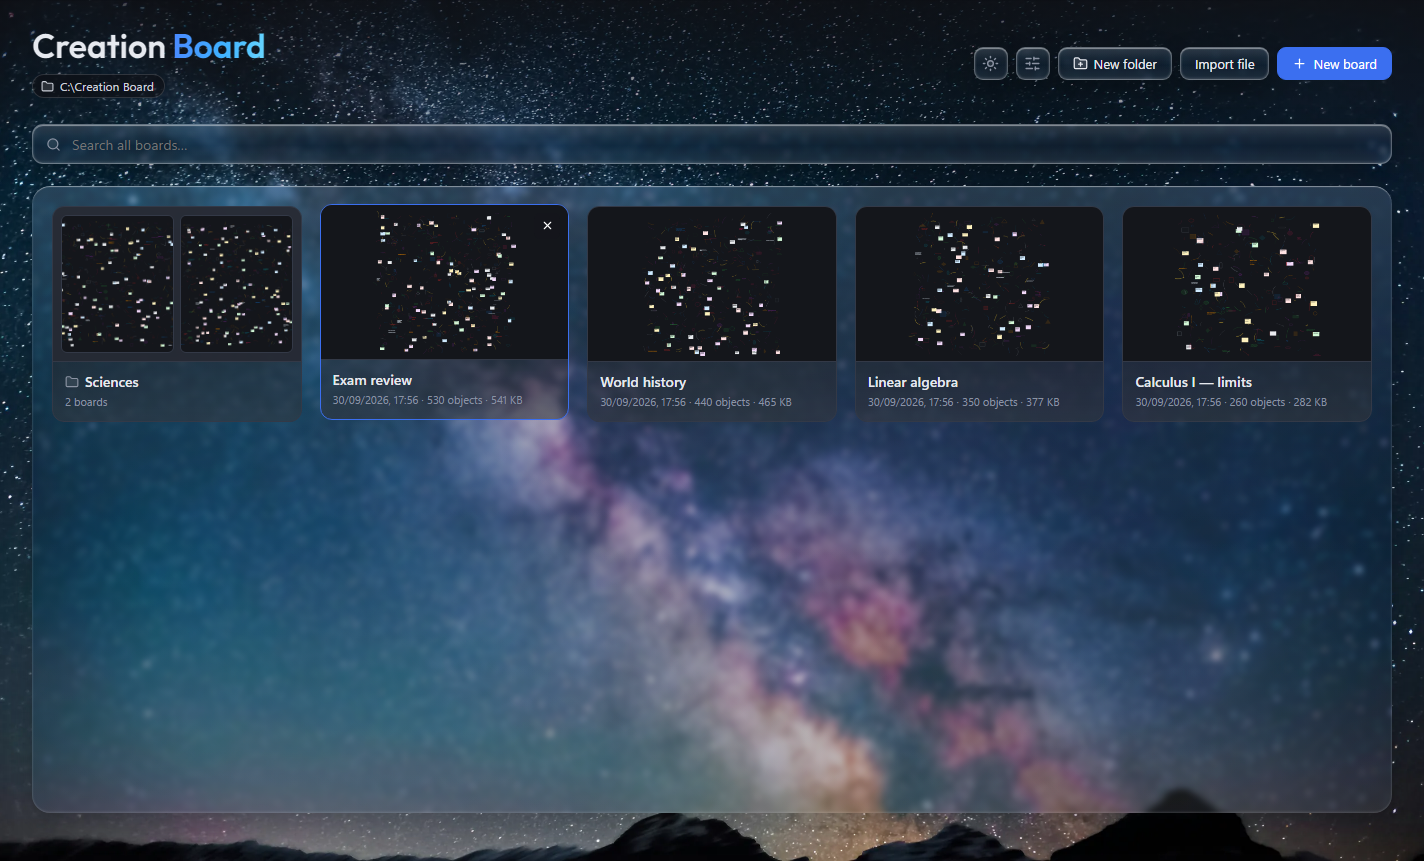
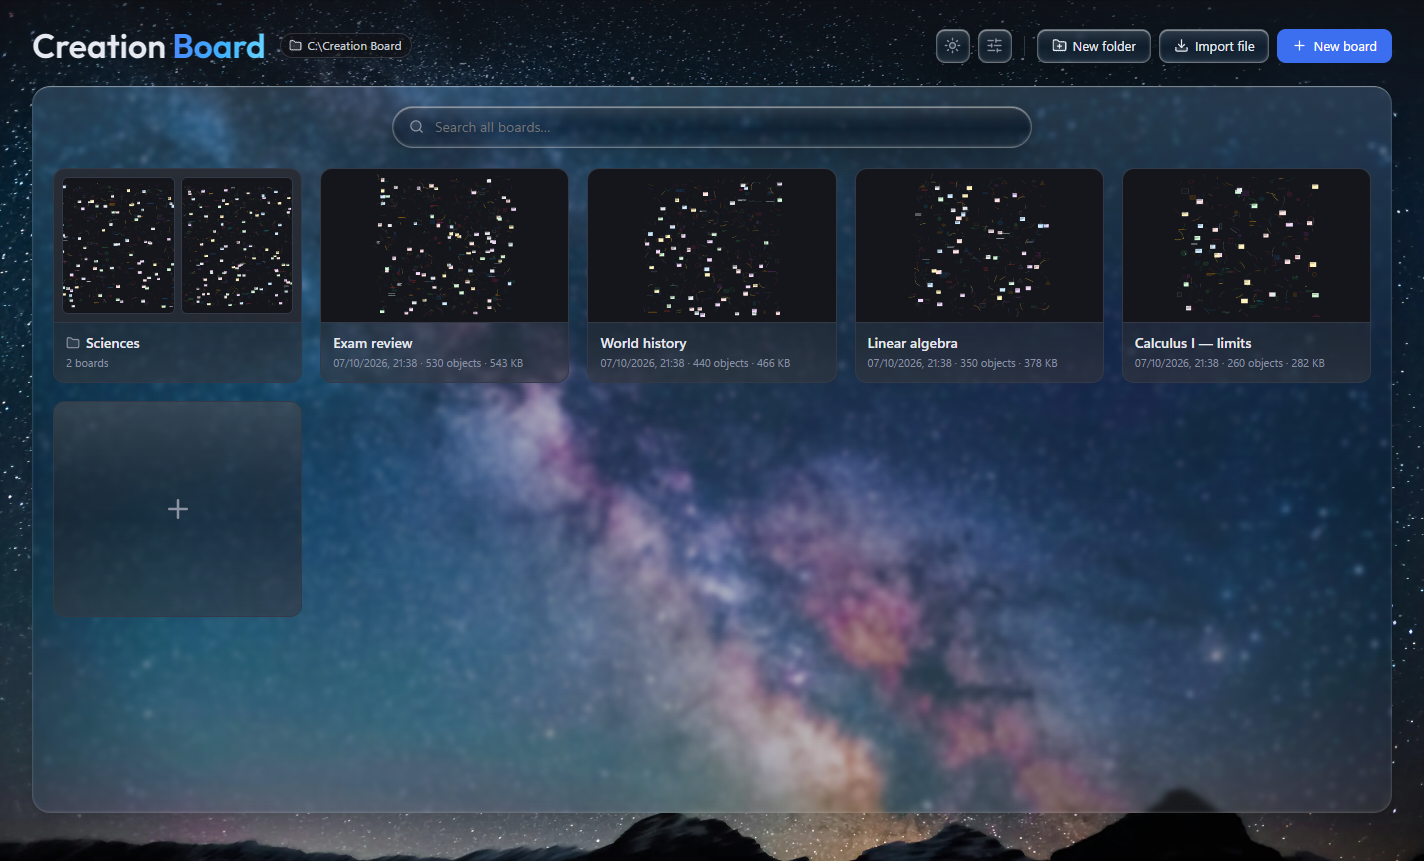
Capturas do README no visual novo, e o "+" da altura de um quadro
Guarda do "+" ampliada: sozinho numa fileira, ele tem a altura de um
quadro. Conferida ao contrario sem a regra (150 / 222, reprovou).
Selftest 201/201.

diff --git a/src/renderer/styles/ui.css b/src/renderer/styles/ui.css
@@ -439,6 +439,9 @@
 .qb-lobby__grid {
   display: grid;
   grid-template-columns: repeat(auto-fill, minmax(240px, 1fr));
+  /* Todas as fileiras com a altura da mais alta: o "+" que cai sozinho numa
+     fileira nova fica do tamanho de um quadro, e nao uma faixa mais baixa. */
+  grid-auto-rows: 1fr;
   gap: 18px;
 }
 
